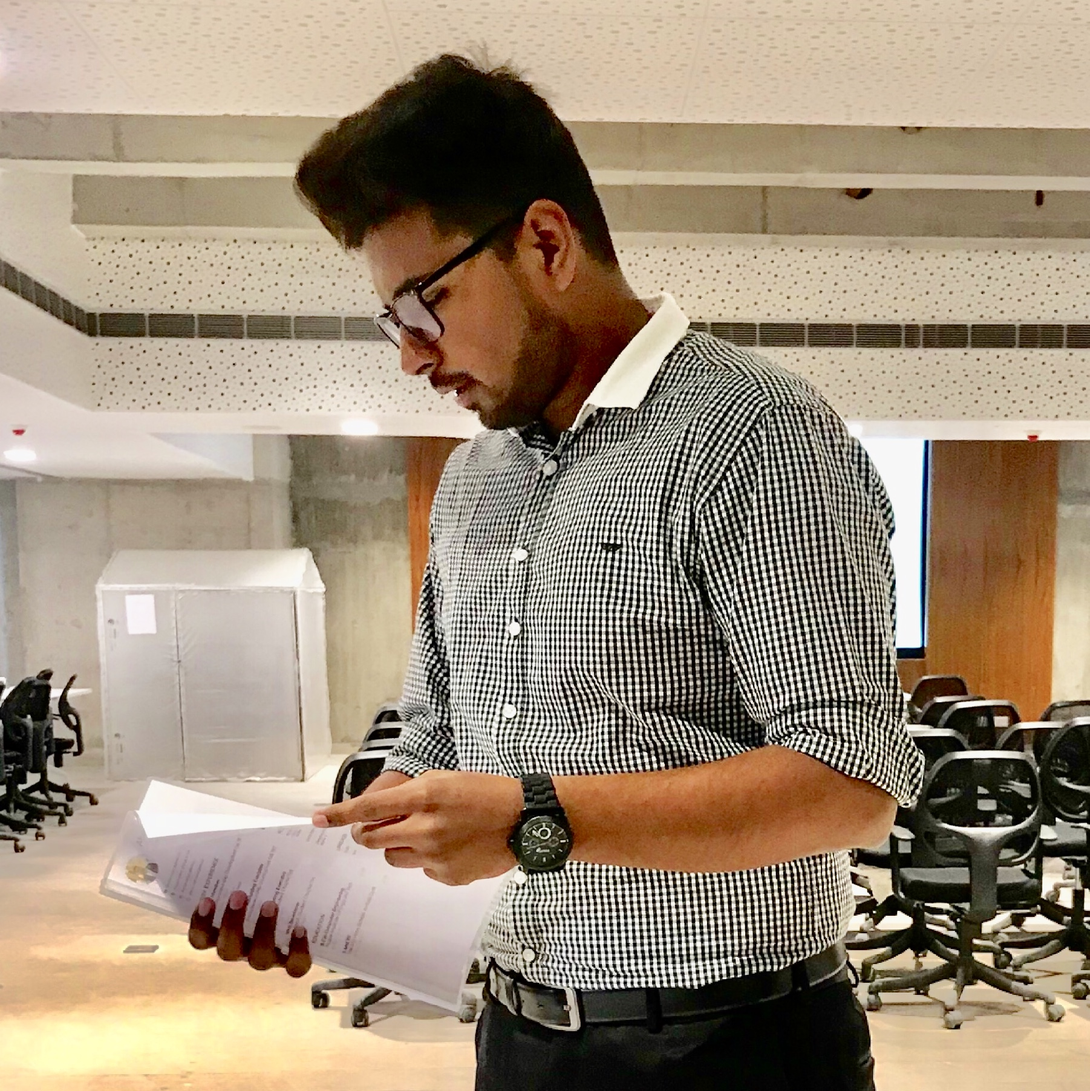
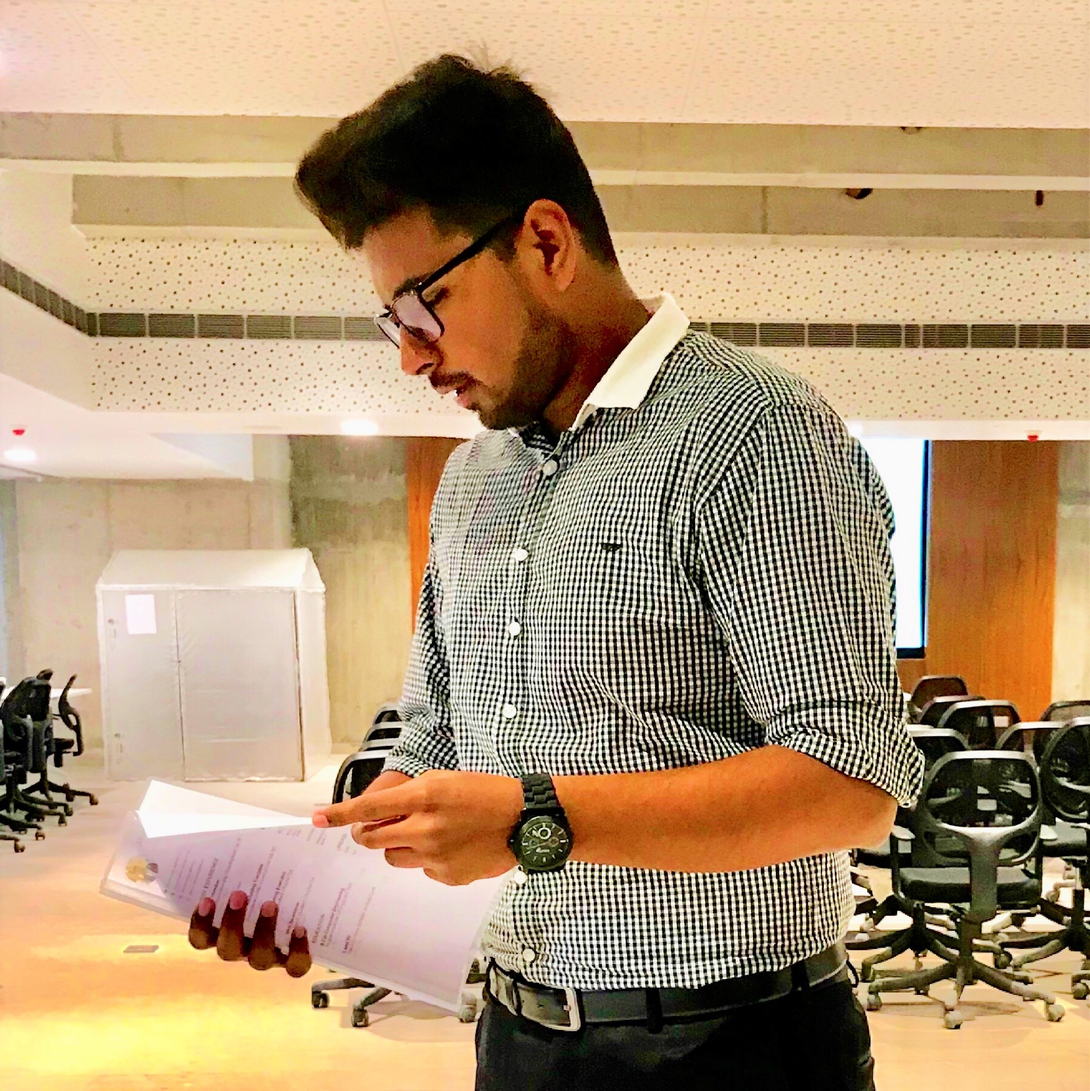
update

diff --git a/index.html b/index.html
@@ -126,7 +126,7 @@
                             </div>
 
                             <h2 class="wow fadeInUp" data-wow-duration="0.8s" data-wow-delay="0.2s" style="font-family: 'Acme', sans-serif;">Akash Jindal</h2>
-                            <h4 class="wow fadeInUp" data-wow-duration="0.8s" data-wow-delay="0.3s">Web Developer | App Developer</h4>
+                            <h4 class="wow fadeInUp" data-wow-duration="0.8s" data-wow-delay="0.3s">App Developer | Web Developer</h4>
 
                             <ul>
                                 <li class="wow fadeInUp" data-wow-duration="0.8s" data-wow-delay="0.4s"><i class="fa fa-envelope"></i><a href="mailto: akashjindal347@gmail.com">akashjindal347@gmail.com</a></li>
@@ -145,7 +145,7 @@
                     <div class="col-sm-6">
                         <div class="hero-img wow fadeInUp" data-wow-duration="0.8s" data-wow-delay="0.6s">
                             <div class="img-border">
-                                <img src="assets/images/aj1.JPEG" alt="" class="img-fluid">
+                                <img src="assets/images/akash2.jpg" alt="" class="img-fluid">
                             </div>
                         </div>
                     </div>
